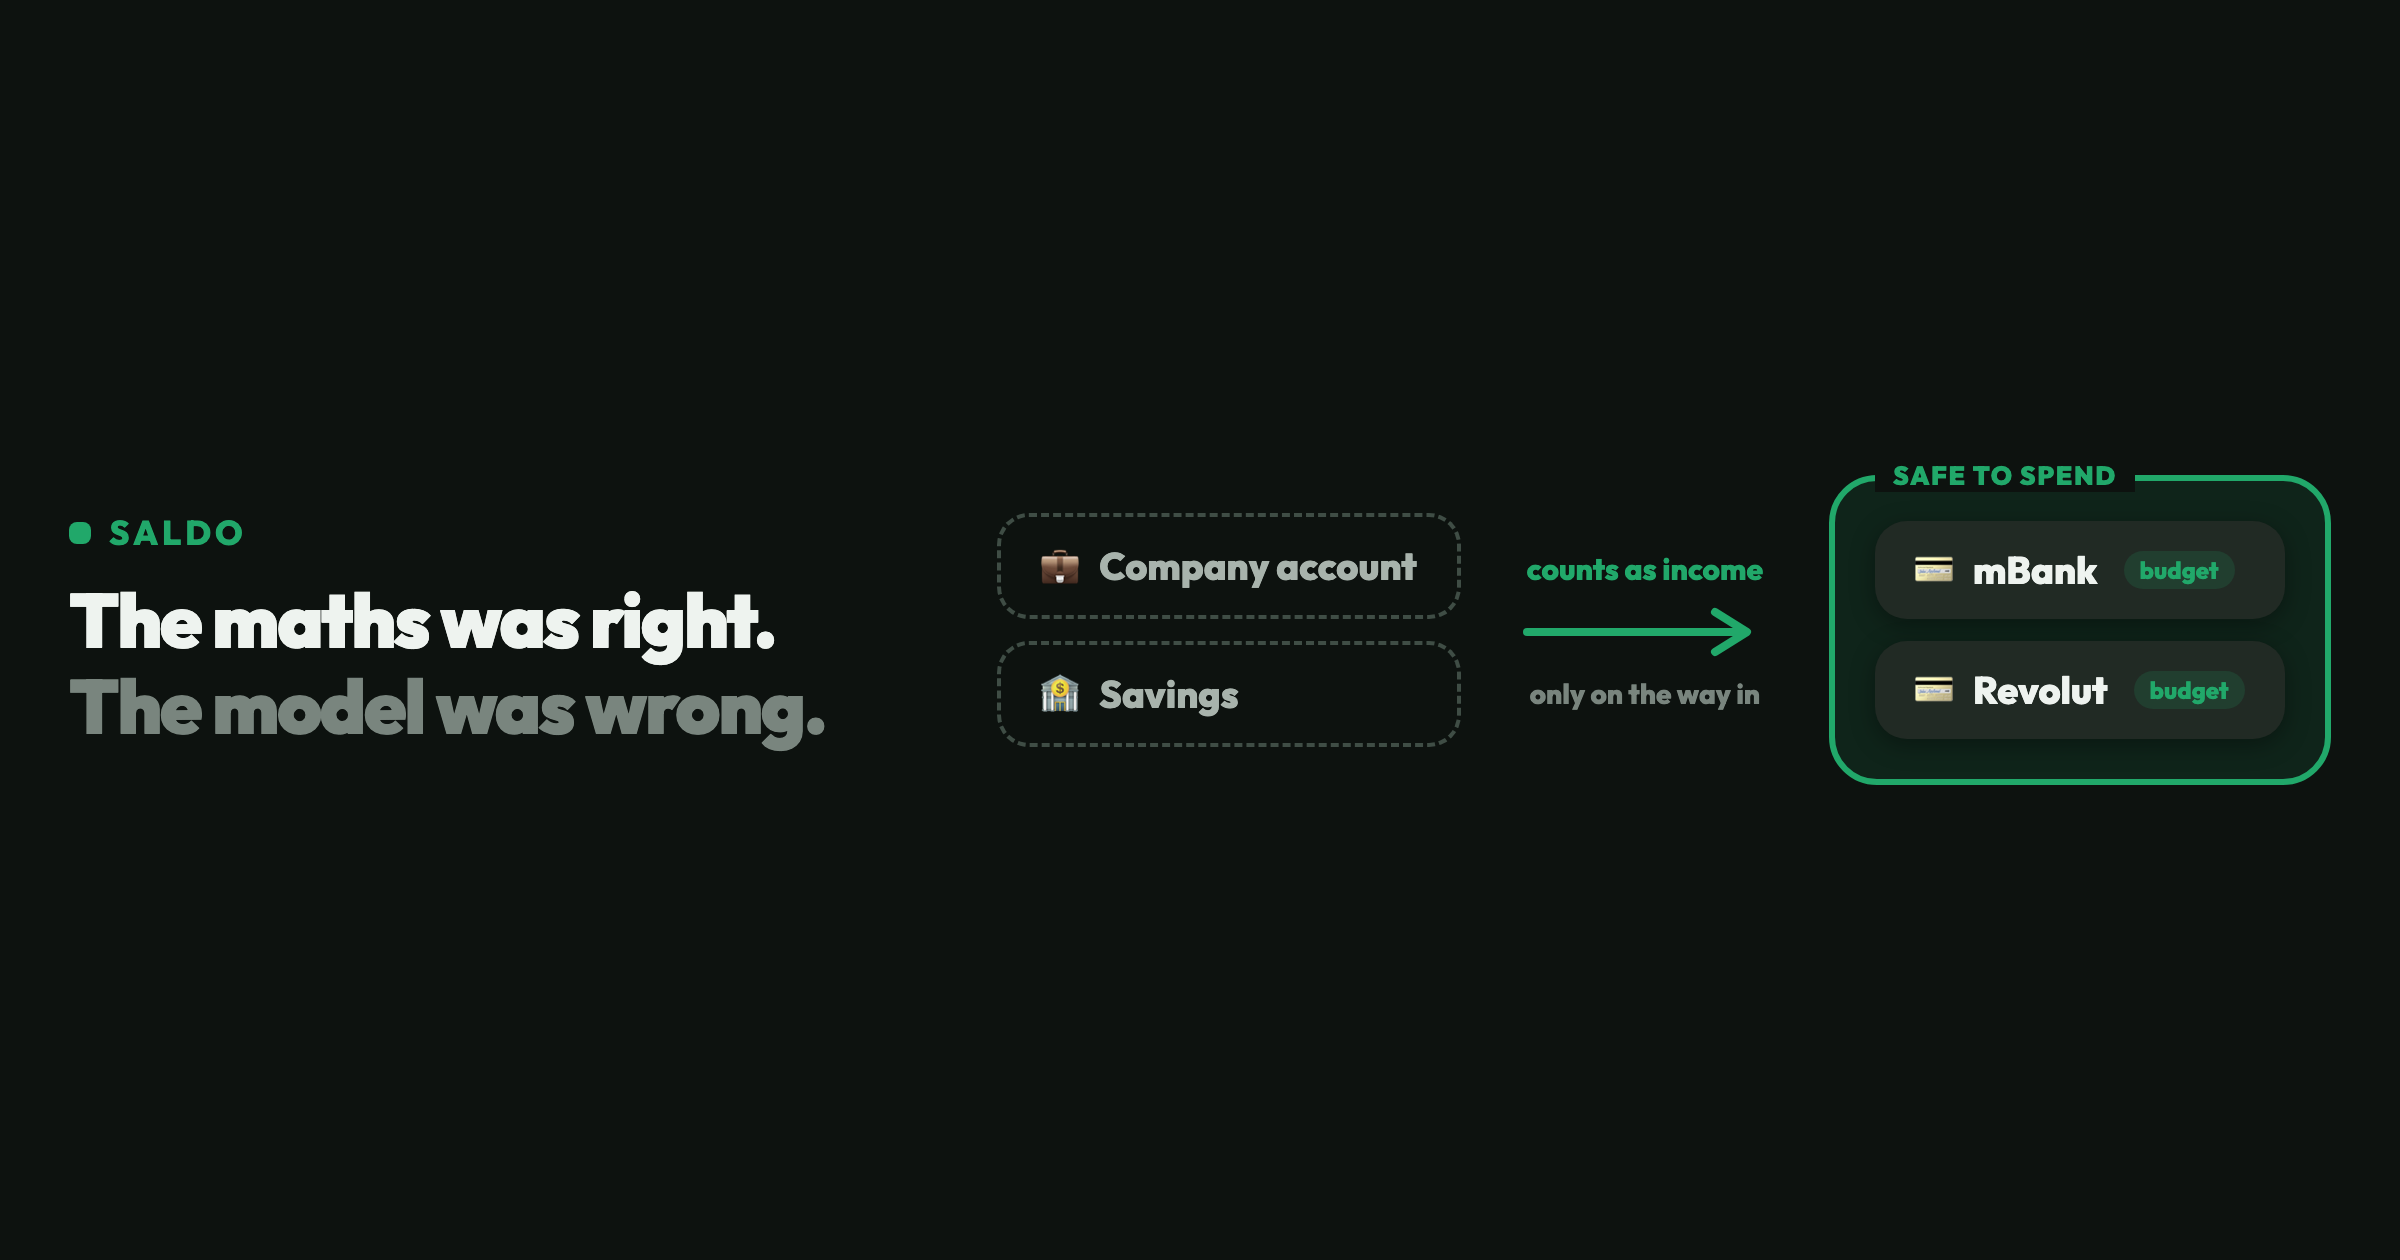
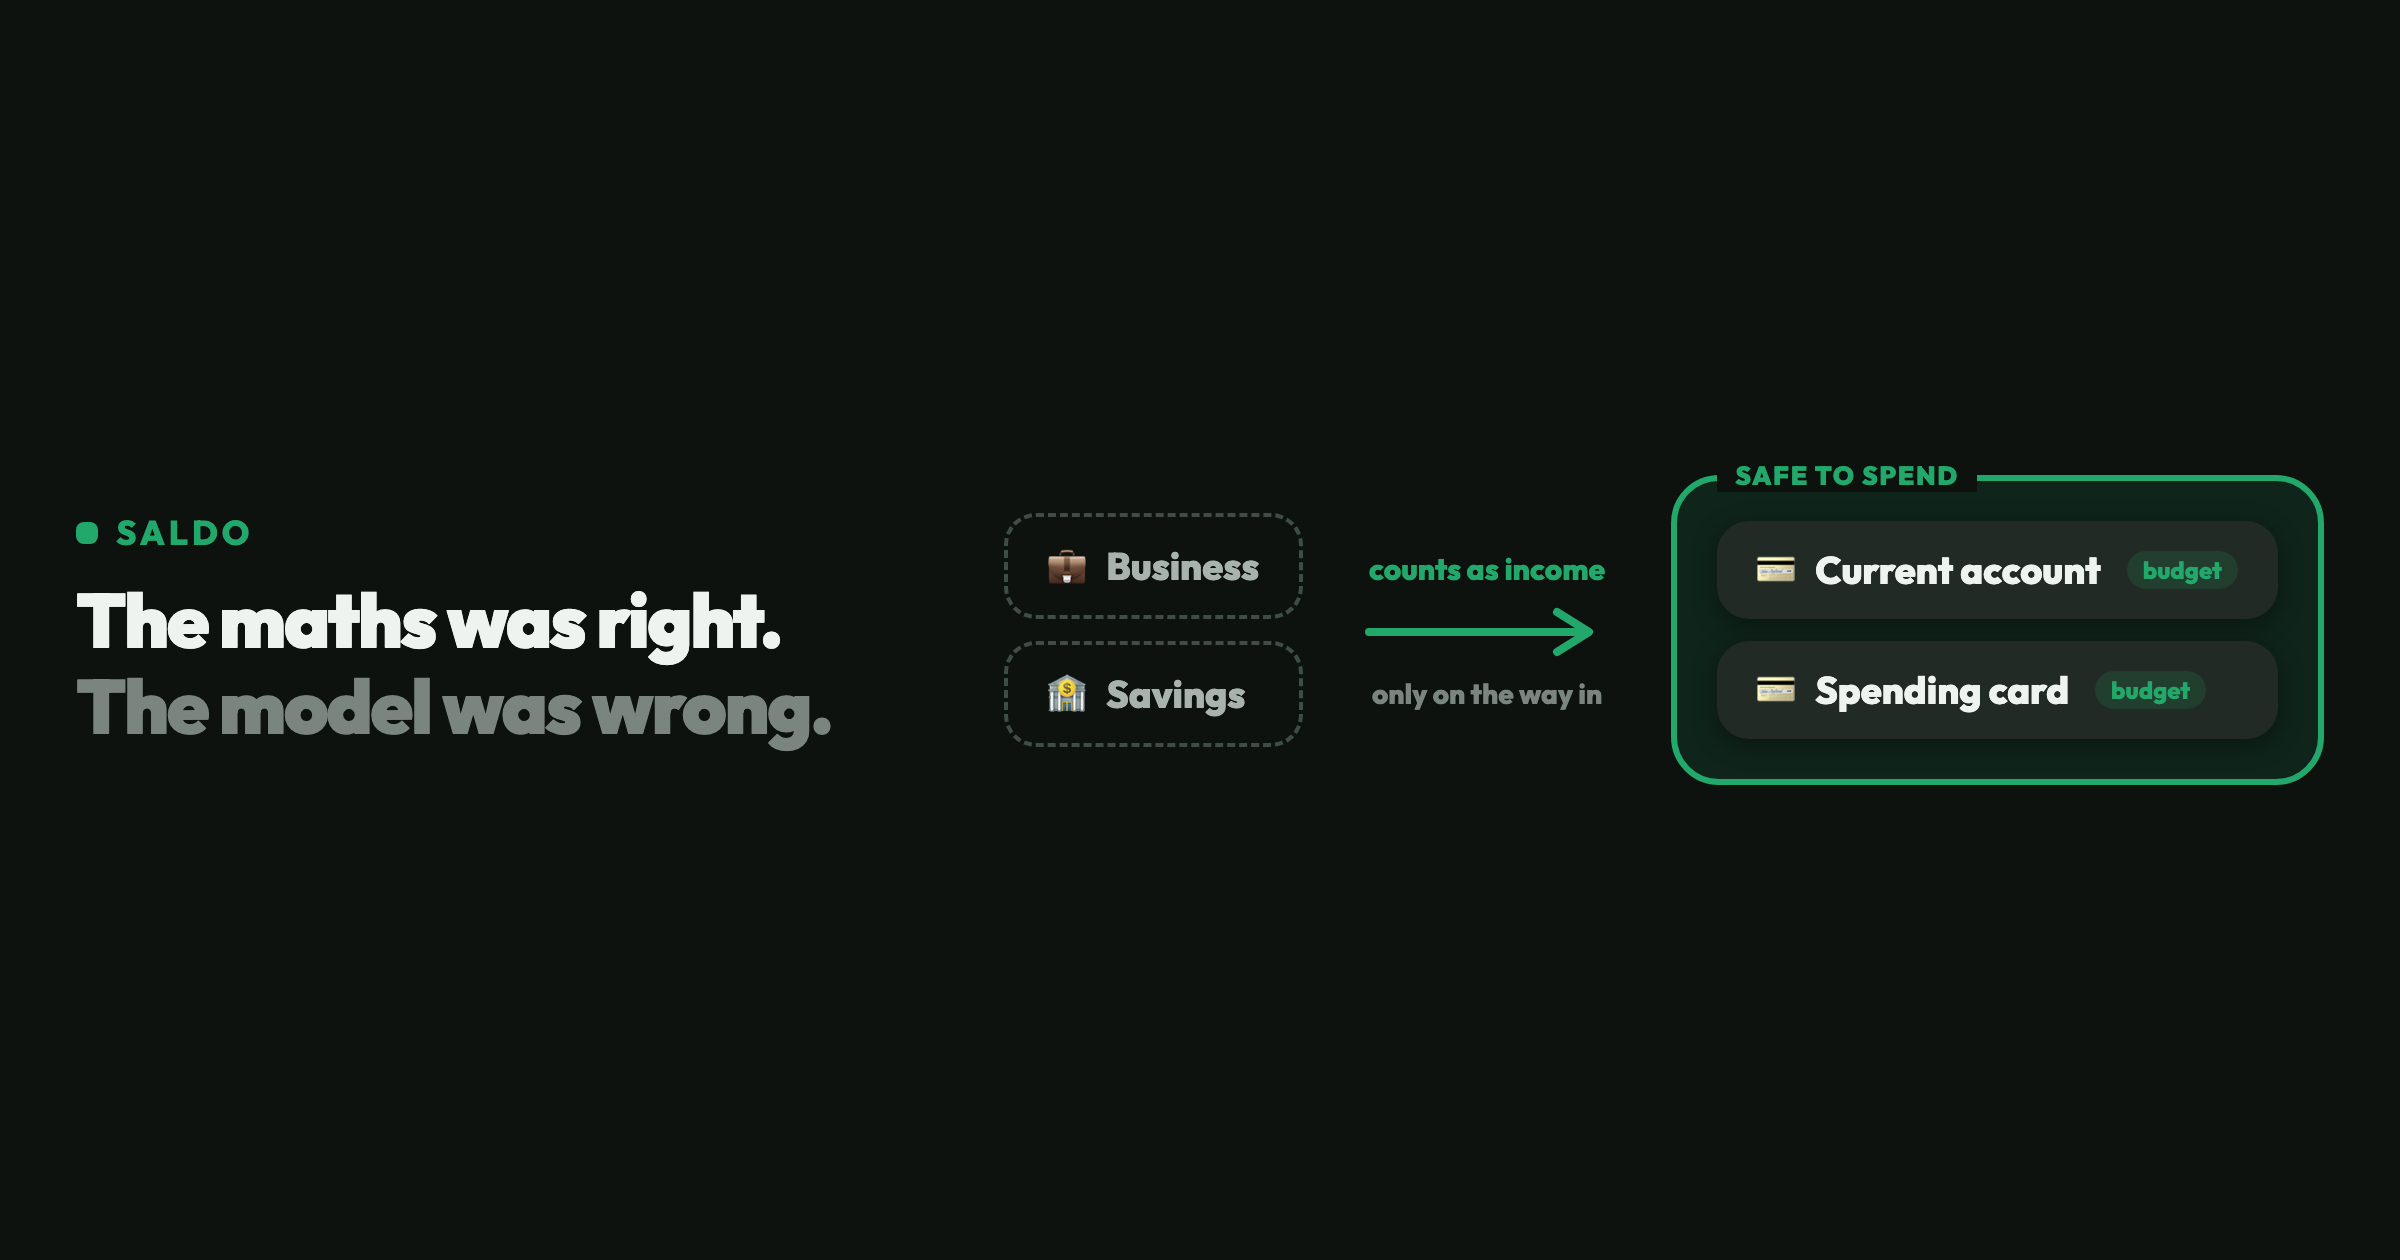
Generic account names on the featured image
The card travels on its own into social previews, where the post's note
about the figures being examples does not follow it, so it should not
carry real bank names at all.

diff --git a/blog-shots/featured.html b/blog-shots/featured.html
@@ -52,7 +52,7 @@
   </div>
   <div class="stage">
     <div class="col outside">
-      <div class="chip"><span class="em">💼</span>Company account</div>
+      <div class="chip"><span class="em">💼</span>Business</div>
       <div class="chip"><span class="em">🏦</span>Savings</div>
     </div>
     <div class="cross">
@@ -66,8 +66,8 @@
     <div class="budget">
       <span class="cap">SAFE TO SPEND</span>
       <div class="col">
-        <div class="chip"><span class="em">💳</span>mBank <span class="pill">budget</span></div>
-        <div class="chip"><span class="em">💳</span>Revolut <span class="pill">budget</span></div>
+        <div class="chip"><span class="em">💳</span>Current account <span class="pill">budget</span></div>
+        <div class="chip"><span class="em">💳</span>Spending card <span class="pill">budget</span></div>
       </div>
     </div>
   </div>
